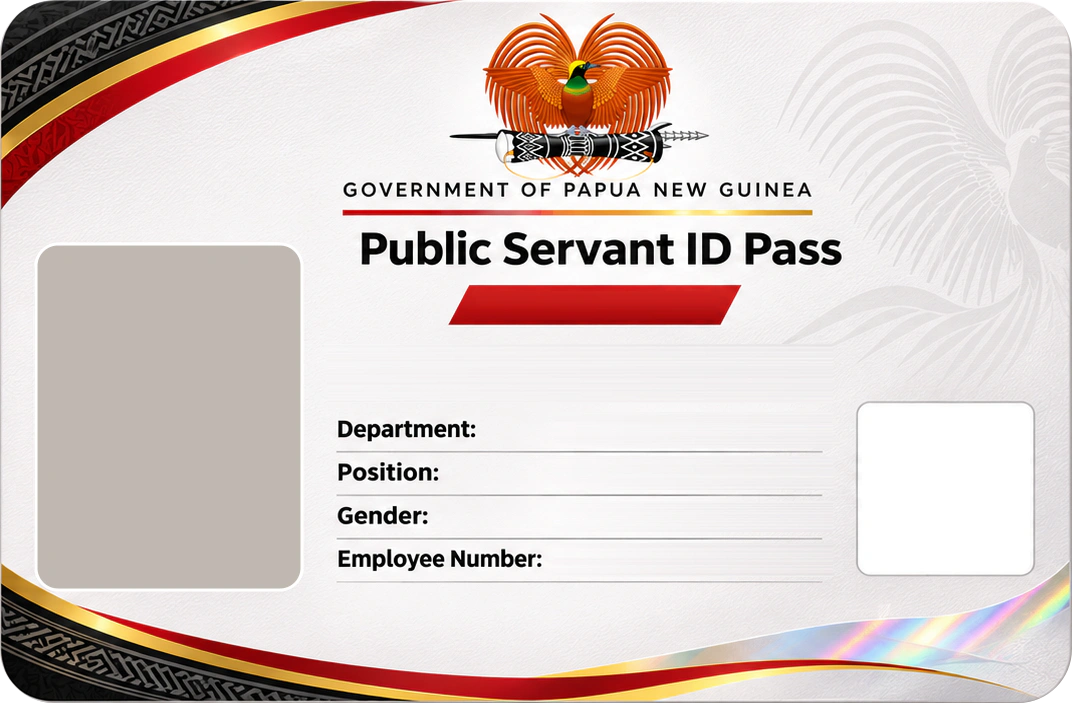
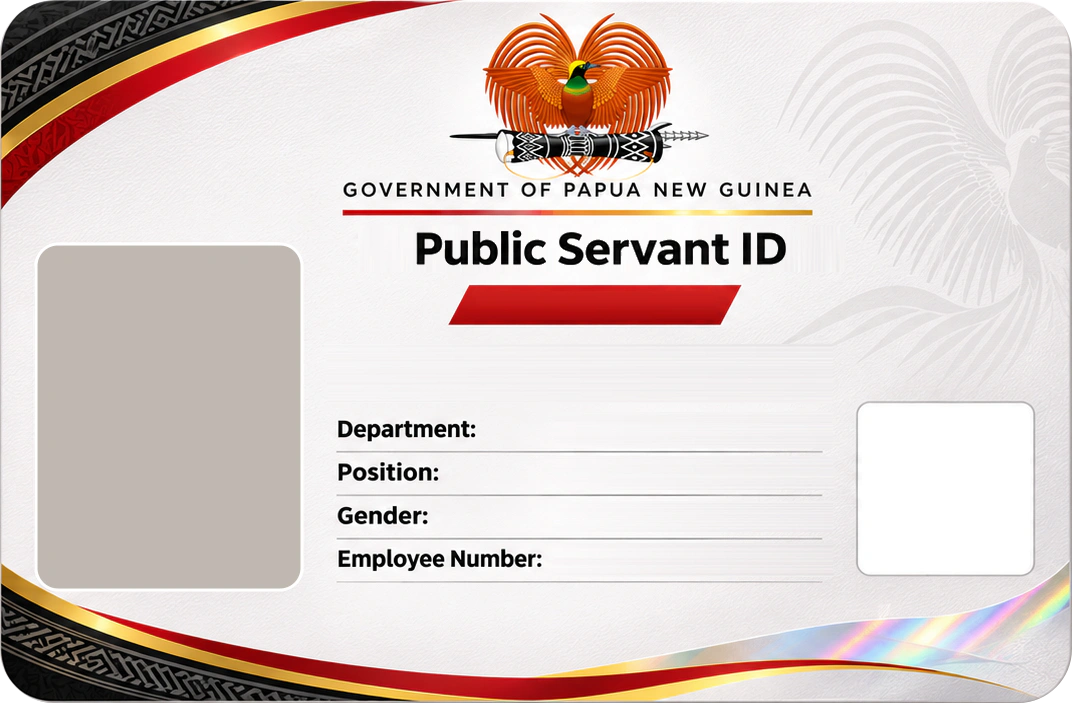
Shorten physical card title to Public Servant ID

Changed region(s): [[0.3386, 0.3286, 0.8004, 0.3883]]

diff --git a/app/pass-design.tsx b/app/pass-design.tsx
@@ -15,7 +15,7 @@ export function PassDesign({card,wallet}:{card:IdCard;wallet:boolean}) {
  },[card,wallet]);
  if(result?.card!==card||result.wallet!==wallet)return <p role="status">Preparing ID…</p>;
  if(result.error)return <p role="alert">{result.error}</p>;
- const title=wallet?'SevisWallet Public Servant Digital ID':'Public Servant ID Pass';
+ const title=wallet?'SevisWallet Public Servant Digital ID':'Public Servant ID';
  return <img className={wallet?styles.digital:styles.physical} src={result.image}
   alt={title+'. '+card.status+'. '+card.name+'. Department: '+card.agency+'. Position: '+card.position+'. Gender: '+card.gender+'. Employee Number: '+card.employeeNumber}/>;
 }

diff --git a/app/id-card-pdf.ts b/app/id-card-pdf.ts
@@ -3,7 +3,7 @@ import type {IdCard} from './id-card';
 
 export function makeIdCardPdf(card:IdCard,passPng:string) {
  const doc=new jsPDF({orientation:'landscape',unit:'mm',format:[86,54],compress:true});
- doc.setProperties({title:'Public Servant ID Pass '+card.employeeNumber,author:'Government of PNG Public Servants Registry System'});
+ doc.setProperties({title:'Public Servant ID '+card.employeeNumber,author:'Government of PNG Public Servants Registry System'});
  doc.addImage(passPng,'PNG',0,0,86,54);
  return doc;
 }
